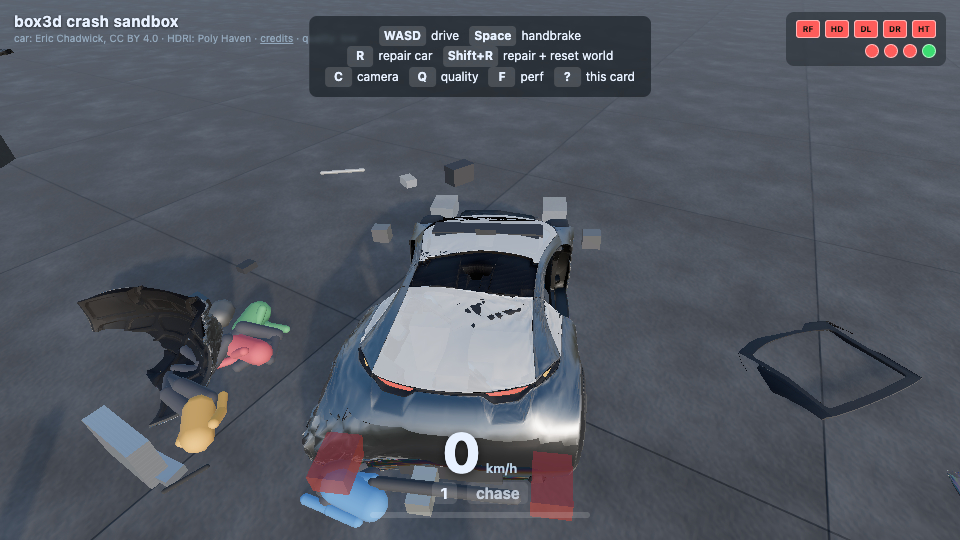
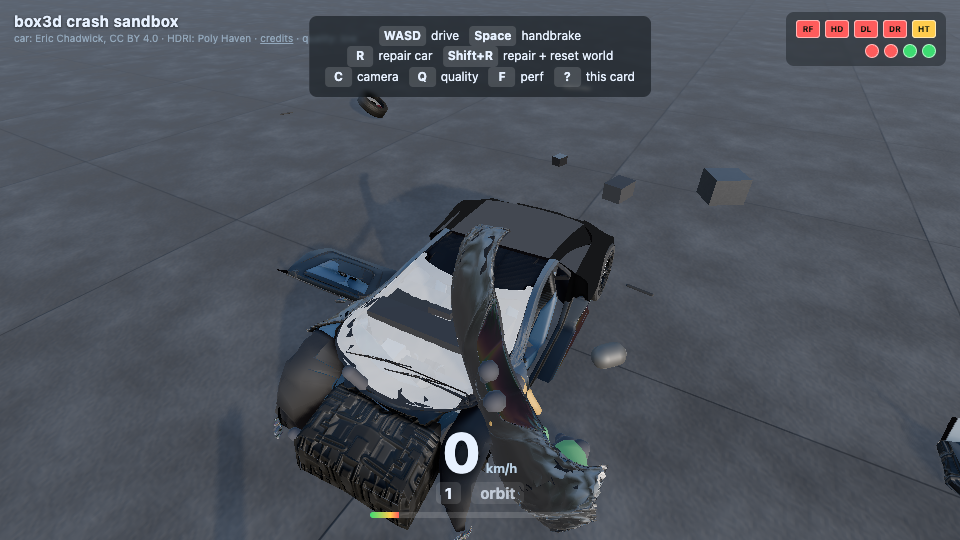
Fix cardetail proxy containment: rear-overhang mismatch + exterior-hidden policy
Numeric audit (chassis-local AABB vs car-map.ts's measured body envelope) found
mufflerTailpipe/rearBumperBeam/taillightL/R poking 265-380mm out the rear (the
spec assumes a 4600mm car with ~850mm rear overhang; the real asset is 4357mm
with only ~626mm rear overhang -- nearly the whole shortfall sits at the back),
headlights ~9mm out the nose, and mirrors ~91mm above the roofline (specUp was
authored at ~roof height instead of beltline). Repositioned each to sit inside
the real envelope with margin; also nudged the dashboard 20mm clear of the
InteriorCage node's forward bound.

Also added the orchestrator's exterior-proxy visibility policy: headlights,
taillights, mirrors, and bumper beams (EXTERIOR_PROXY_IDS) are invisible while
attached -- the GLB body already renders painted lights/mirrors, so the grey
collision proxy only appears once it actually detaches as flying debris.

New game/sim/cardetail-containment.test.mjs gates both fixes: whole-envelope
containment for all 39 parts, a tighter cabin-footprint check for the 8
interior parts, and the invisible-while-attached/visible-once-detached
invariant. Existing crash-detach/scatter tests (features-cardetail.test.mjs)
stay green (9 parts still detach on a 110 km/h wall hit).

Eyes-on: rebuilt dist/, re-ran verify/feature-cardetail.mjs against the fresh
build -- front/side/rear/top spawn screenshots show zero grey boxes on the
intact car (mirrors/headlights/taillights/bumper beams all hidden), and the
[…]

diff --git a/game/src/world/features/cardetail/tuning.ts b/game/src/world/features/cardetail/tuning.ts
@@ -133,8 +133,10 @@ export const CAR_DETAIL_SPECS: readonly CarDetailSpec[] = [
 	// Y bumped 280->460mm for the same ground-clearance reason as the front seats above.
 	{ id: 'rearBench', label: 'Rear bench', strength: 'firm', phys: 'box', dims: box(500, 1200, 800), localCenter: mm(-500, 460, 0), massKgSpec: 22, matKey: 'clothBlack', engineBay: false },
 	// Dashboard (17): re-ordered -- 1400mm is the lateral span (A-pillar to A-pillar), 250mm the
-	// front-back depth, 350mm the binnacle height.
-	{ id: 'dashboard', label: 'Dashboard', strength: 'firm', phys: 'box', dims: box(250, 1400, 350), localCenter: mm(950, 850, 0), massKgSpec: 20, matKey: 'plasticBlackMatte', engineBay: false },
+	// front-back depth, 350mm the binnacle height. Nudged 20mm back (950->930) -- the audit found the
+	// spec's literal value pokes ~4mm past the real InteriorCage node's forward Z bound (car-map.ts
+	// chassis.InteriorCage), which read as the box clipping into the windshield/hood boundary.
+	{ id: 'dashboard', label: 'Dashboard', strength: 'firm', phys: 'box', dims: box(250, 1400, 350), localCenter: mm(930, 850, 0), massKgSpec: 20, matKey: 'plasticBlackMatte', engineBay: false },
 	// Steering wheel + column (18): positioned at the midpoint of the spec's wheel-center and firewall-
 	// mount points; COLLAPSIBLE (see index.ts's 2-stage weld handling: collapse then break).
 	{
@@ -157,7 +159,17 @@ export const CAR_DETAIL_SPECS: readonly CarDetailSpec[] = [
 
 	// ---- Underbody / extremities (§3, priority 3) ----
 	{ id: 'catConverter', label: 'Catalytic converter', strength: 'firm', phys: 'capsuleZ', dims: capZ(300, 90), localCenter: mm(700, 280, 150), massKgSpec: 7, matKey: 'stainlessBrushed', engineBay: false },
-	{ id: 'mufflerTailpipe', label: 'Muffler + tailpipe', strength: 'firm', phys: 'box', dims: box(700, 200, 180), localCenter: mm(-1900, 260, 200), massKgSpec: 12, matKey: 'stainlessBrushed', engineBay: false },
+	// REAR-OVERHANG CORRECTION (found by the numeric audit, game/sim/cardetail-containment.test.mjs):
+	// the spec's own §0 assumes a 4600mm-overall/~850mm-rear-overhang car and flags this explicitly
+	// ("treat the extra ~240mm as slack... or scale every X position"). The REAL asset (car-map.ts
+	// overallDimsMm) is 4357mm overall, and nearly ALL of that ~243mm shortfall sits in the REAR
+	// overhang specifically (measured real rear overhang, rear-axle-Z to rear-most-body-Z, is only
+	// ~626mm vs the spec's assumed 850mm -- the FRONT overhang matches the real asset almost exactly,
+	// ~931mm vs assumed 950mm). Taking the spec's rear-mounted X values literally therefore pokes
+	// mufflerTailpipe/rearBumperBeam/taillightL/R 265-380mm out the back of the real body envelope.
+	// Repositioned (Z only, forward toward the axle) so each sits fully inside the measured envelope
+	// with a small (~30-40mm) clearance margin instead of clipping through the rear bumper skin.
+	{ id: 'mufflerTailpipe', label: 'Muffler + tailpipe', strength: 'firm', phys: 'box', dims: box(700, 200, 180), localCenter: mm(-1550, 260, 200), massKgSpec: 12, matKey: 'stainlessBrushed', engineBay: false },
 	{ id: 'fuelTank', label: 'Fuel tank', strength: 'rigid', phys: 'box', dims: box(900, 500, 250), localCenter: mm(-1150, 280, 0), massKgSpec: 40, matKey: 'steelMattePowder', engineBay: false },
 	{ id: 'frontSubframe', label: 'Front subframe', strength: 'rigid', phys: 'box', dims: box(1000, 900, 200), localCenter: mm(1450, 280, 0), massKgSpec: 35, matKey: 'steelMattePowder', engineBay: false },
 	{ id: 'rearSubframe', label: 'Rear subframe', strength: 'rigid', phys: 'box', dims: box(950, 900, 200), localCenter: mm(-1450, 280, 0), massKgSpec: 30, matKey: 'steelMattePowder', engineBay: false },
@@ -172,16 +184,50 @@ export const CAR_DETAIL_SPECS: readonly CarDetailSpec[] = [
 	// Bumper beams (32-33): "span" bars, modeled as a lateral (local X) capsule, same rationale as the
 	// strut brace above.
 	{ id: 'frontBumperBeam', label: 'Front bumper beam', strength: 'firm', phys: 'capsuleX', dims: capX(1300, 55), localCenter: mm(2230, 430, 0), massKgSpec: 8, matKey: 'steelMattePowder', engineBay: false },
-	{ id: 'rearBumperBeam', label: 'Rear bumper beam', strength: 'firm', phys: 'capsuleX', dims: capX(1250, 55), localCenter: mm(-2150, 430, 0), massKgSpec: 9, matKey: 'steelMattePowder', engineBay: false },
-	{ id: 'headlightL', label: 'Headlight L', strength: 'breaksEasily', phys: 'box', dims: box(450, 350, 250), localCenter: mm(2200, 620, -850), massKgSpec: 3.5, matKey: 'lensClear', engineBay: false },
-	{ id: 'headlightR', label: 'Headlight R', strength: 'breaksEasily', phys: 'box', dims: box(450, 350, 250), localCenter: mm(2200, 620, 850), massKgSpec: 3.5, matKey: 'lensClear', engineBay: false },
-	{ id: 'taillightL', label: 'Taillight L', strength: 'breaksEasily', phys: 'box', dims: box(400, 300, 200), localCenter: mm(-2120, 620, -850), massKgSpec: 1.8, matKey: 'lensRed', engineBay: false },
-	{ id: 'taillightR', label: 'Taillight R', strength: 'breaksEasily', phys: 'box', dims: box(400, 300, 200), localCenter: mm(-2120, 620, 850), massKgSpec: 1.8, matKey: 'lensRed', engineBay: false },
+	// Rear-overhang correction (see mufflerTailpipe's comment above) -- moved forward from the spec's
+	// literal -2150mm so the beam's box sits inside the real rear envelope instead of poking through.
+	{ id: 'rearBumperBeam', label: 'Rear bumper beam', strength: 'firm', phys: 'capsuleX', dims: capX(1250, 55), localCenter: mm(-1850, 430, 0), massKgSpec: 9, matKey: 'steelMattePowder', engineBay: false },
+	// Headlights (36-37): tiny (~9mm) front-overhang overshoot from the same spec/real-asset mismatch
+	// (see mufflerTailpipe's comment) -- nudged back 30mm to clear the real front envelope.
+	{ id: 'headlightL', label: 'Headlight L', strength: 'breaksEasily', phys: 'box', dims: box(450, 350, 250), localCenter: mm(2170, 620, -850), massKgSpec: 3.5, matKey: 'lensClear', engineBay: false },
+	{ id: 'headlightR', label: 'Headlight R', strength: 'breaksEasily', phys: 'box', dims: box(450, 350, 250), localCenter: mm(2170, 620, 850), massKgSpec: 3.5, matKey: 'lensClear', engineBay: false },
+	// Rear-overhang correction (see mufflerTailpipe's comment above).
+	{ id: 'taillightL', label: 'Taillight L', strength: 'breaksEasily', phys: 'box', dims: box(400, 300, 200), localCenter: mm(-1700, 620, -850), massKgSpec: 1.8, matKey: 'lensRed', engineBay: false },
+	{ id: 'taillightR', label: 'Taillight R', strength: 'breaksEasily', phys: 'box', dims: box(400, 300, 200), localCenter: mm(-1700, 620, 850), massKgSpec: 1.8, matKey: 'lensRed', engineBay: false },
 	// Side mirrors (38-39): "projects outboard" -- the spec's first dim (200mm) is explicitly the
-	// outboard (lateral) projection, so lateral is re-ordered to the first column here.
-	{ id: 'mirrorL', label: 'Side mirror L', strength: 'breaksEasily', phys: 'box', dims: box(150, 200, 180), localCenter: mm(550, 1150, -1250), massKgSpec: 0.9, matKey: 'paintGeneric', engineBay: false },
-	{ id: 'mirrorR', label: 'Side mirror R', strength: 'breaksEasily', phys: 'box', dims: box(150, 200, 180), localCenter: mm(550, 1150, 1250), massKgSpec: 0.9, matKey: 'paintGeneric', engineBay: false },
+	// outboard (lateral) projection, so lateral is re-ordered to the first column here. FOUND BY THE
+	// AUDIT: the spec's literal specUp=1150mm (ground-referenced) sits almost exactly at the real
+	// roofline (car-map.ts overallDimsMm.height=1149mm), so the mirror box's top face poked ~91mm
+	// above the roof ("floating cubes at the A-pillars" the orchestrator's screenshot showed) --
+	// dropped to 950mm (roughly beltline/greenhouse height, well clear of the roof). Also pulled the
+	// lateral offset in from 1250mm to 1160mm so the box's outboard face stays inside the real overall
+	// width envelope (car-map.ts overallDimsMm.width=2542mm, half=1271mm) while still projecting a
+	// realistic ~90mm past the door's own outer surface (car-map.ts panels.BodyDoorLColor1, X up to
+	// ~1169mm).
+	{ id: 'mirrorL', label: 'Side mirror L', strength: 'breaksEasily', phys: 'box', dims: box(150, 200, 180), localCenter: mm(550, 950, -1160), massKgSpec: 0.9, matKey: 'paintGeneric', engineBay: false },
+	{ id: 'mirrorR', label: 'Side mirror R', strength: 'breaksEasily', phys: 'box', dims: box(150, 200, 180), localCenter: mm(550, 950, 1160), massKgSpec: 0.9, matKey: 'paintGeneric', engineBay: false },
 ];
+
+/**
+ * Exterior proxy parts (headlights, taillights, mirrors, bumper beams) -- the GLB body already
+ * renders painted lights/mirrors/bumper covers at these locations, so a grey collision-proxy box
+ * glued on top of that pretty bodywork reads as a visible defect ("protruding grey boxes") even when
+ * its AABB is geometrically contained. VISIBILITY POLICY (orchestrator directive): these stay
+ * INVISIBLE while `attached` (index.ts's applyVisuals()) -- flying debris on detach sells the crash,
+ * a grey box glued to intact paint does not. Interior/underbody/engine-bay parts are unaffected by
+ * this set (engine-bay keeps its own separate hood-gated visibility; interior/underbody stay visible
+ * throughout, per the spec's "seen through glass" / "seen from below" intent).
+ */
+export const EXTERIOR_PROXY_IDS: ReadonlySet<string> = new Set([
+	'frontBumperBeam',
+	'rearBumperBeam',
+	'headlightL',
+	'headlightR',
+	'taillightL',
+	'taillightR',
+	'mirrorL',
+	'mirrorR',
+]);
 
 /** Sum of every component's UNSCALED spec mass -- exists only so MASS_SCALE's derivation below is
  * self-checking (rather than a hand-copied "506" that could drift from the table above). */

diff --git a/game/src/world/features/cardetail/index.ts b/game/src/world/features/cardetail/index.ts
@@ -28,6 +28,7 @@ import {
 	COLLAPSE_TORQUE_NM,
 	COLUMN_BREAK_FORCE_N,
 	COLUMN_BREAK_TORQUE_NM,
+	EXTERIOR_PROXY_IDS,
 	FIRM_FORCE_N,
 	FIRM_TORQUE_NM,
 	OTHER_MISC,
@@ -182,6 +183,12 @@ export default function createCarDetailFeature(ctx: FeatureContext): WorldFeatur
 				ctx.scene.add(mesh);
 				transform = new InterpolatedTransform();
 			}
+			// Set the correct attached-state visibility immediately at spawn/respawn -- don't wait for
+			// the first applyVisuals() call (THREE.Object3D.visible defaults to true, which would leak an
+			// exterior proxy for one frame, and the headless sim test never calls applyVisuals() at all).
+			if (spec.engineBay) mesh.visible = vehicle.panels.hood.state !== 'attached';
+			else if (EXTERIOR_PROXY_IDS.has(spec.id)) mesh.visible = false;
+			else mesh.visible = true;
 			transform.sample(worldPos, spawnRotation);
 			transform.sample(worldPos, spawnRotation); // fill prev+curr, no lerp-from-old-pose on (re)spawn
 
@@ -309,7 +316,15 @@ export default function createCarDetailFeature(ctx: FeatureContext): WorldFeatur
 			const hoodAttached = ctx.getVehicle().panels.hood.state === 'attached';
 			for (const h of handles) {
 				h.transform.applyTo(h.mesh, alpha);
-				if (h.spec.engineBay) h.mesh.visible = !hoodAttached;
+				if (h.spec.engineBay) {
+					h.mesh.visible = !hoodAttached;
+				} else if (EXTERIOR_PROXY_IDS.has(h.spec.id)) {
+					// VISIBILITY POLICY (orchestrator directive, see tuning.ts's EXTERIOR_PROXY_IDS doc
+					// comment): the GLB body already renders painted headlights/taillights/mirrors/bumper
+					// covers at these spots, so the grey collision proxy stays invisible while still
+					// `attached` and only appears once it has actually detached (flying debris on impact).
+					h.mesh.visible = h.state !== 'attached';
+				}
 			}
 		},
 
@@ -339,6 +354,10 @@ export default function createCarDetailFeature(ctx: FeatureContext): WorldFeatur
 			 * equivalent accessor). Never mutates state itself. */
 			bodies: () => handles.map((h) => h.body),
 			states: () => Object.fromEntries(handles.map((h) => [h.spec.id, h.state])),
+			/** Diagnostic/test hook: current THREE mesh.visible per component -- lets
+			 * cardetail-containment.test.mjs assert the "exterior proxies are invisible while attached"
+			 * visibility policy (tuning.ts's EXTERIOR_PROXY_IDS) without a scene/renderer. */
+			meshVisible: () => Object.fromEntries(handles.map((h) => [h.spec.id, h.mesh.visible])),
 			/** Diagnostic: current weld constraint-force magnitude (N) per component, or null once
 			 * broken (no weld left to read). Useful for calibrating tuning.ts's break thresholds. */
 			constraintForces: () => Object.fromEntries(handles.map((h) => [h.spec.id, h.weld ? length(h.weld.getConstraintForce()) : null])),
